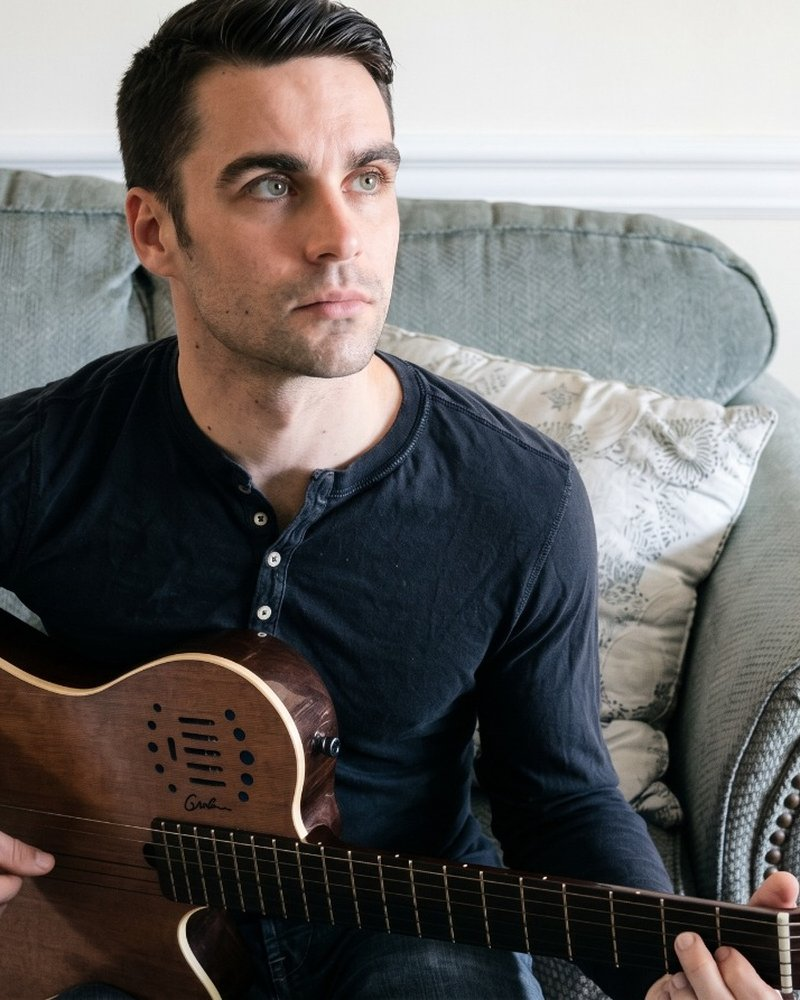
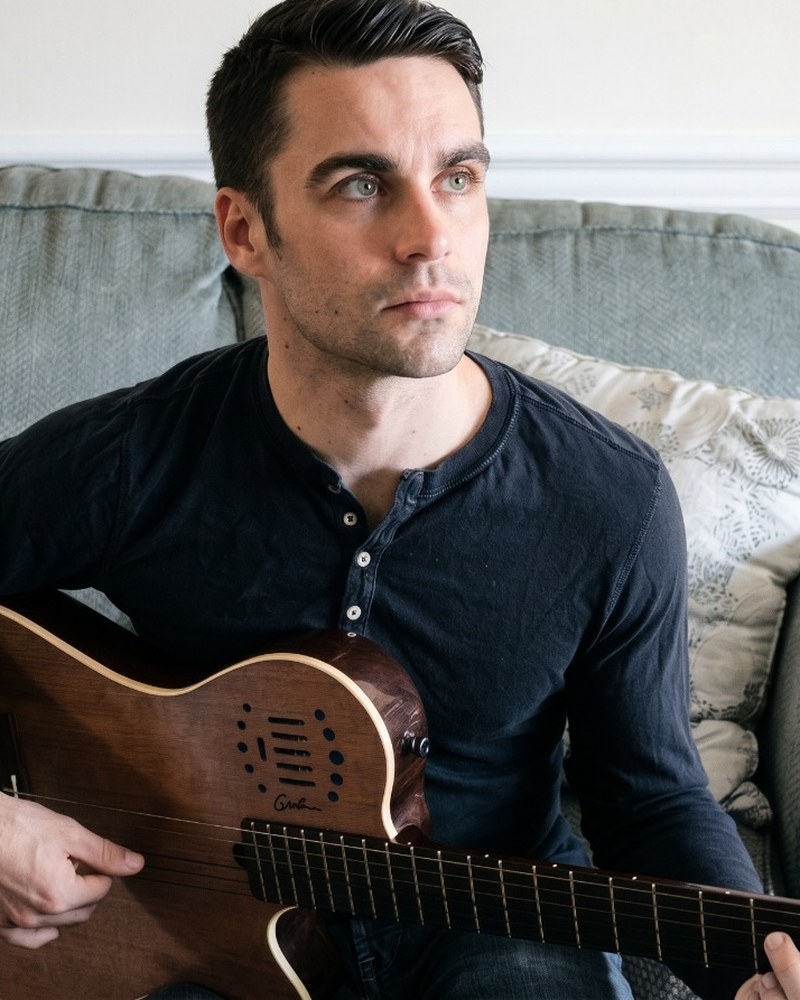
Fix: photo centering + Michael contact info

diff --git a/index.html b/index.html
@@ -299,13 +299,20 @@ body{
   background:rgba(251,247,241,.04);
   border:1px solid rgba(251,247,241,.08);
   border-radius:20px;
-  transition:all .4s ease;
-  cursor:default;
+  transition:transform .3s cubic-bezier(.34,1.56,.64,1), background .3s ease, border-color .3s ease, box-shadow .3s ease;
+  cursor:pointer;
 }
 .pillar:hover{
-  background:rgba(251,247,241,.07);
-  border-color:rgba(232,184,110,.3);
-  transform:translateY(-4px);
+  background:rgba(251,247,241,.1);
+  border-color:rgba(232,184,110,.6);
+  transform:translateY(-10px) scale(1.03);
+  box-shadow:0 20px 50px rgba(232,184,110,.18), 0 0 0 1px rgba(232,184,110,.4), inset 0 1px 0 rgba(232,184,110,.15);
+}
+.pillar:hover .pillar-num{
+  color:#F5C77A;
+}
+.pillar:hover .pillar-title{
+  color:#F5C77A;
 }
 .pillar-num{
   font-family:'Fraunces',serif;
@@ -357,9 +364,8 @@ body{
   width:100%;
   height:100%;
   object-fit:cover;
-  transition:transform 1s ease;
+  object-position:center center;
 }
-.founder-photo:hover img{transform:scale(1.03)}
 .founder-stats{
   display:flex;
   gap:40px;
@@ -710,6 +716,7 @@ body{
             <div class="stat-label">Students Reached</div>
           </div>
         </div>
+        <p style="font-size:15px;color:#3D362C;margin-top:32px">Email Michael directly: <a href="mailto:[email redacted]" style="color:#B8732D;font-weight:500">[email redacted]</a><br>Call Michael: <a href="tel:+12013440362" style="color:#B8732D;font-weight:500">(201) 344-0362</a></p>
       </div>
     </div>
   </div>
@@ -828,32 +835,51 @@ const observer = new IntersectionObserver(entries => {
 document.querySelectorAll('.reveal').forEach(el => observer.observe(el));
 
 // ─── Form submission ──────────────────────────────────────
+// Posts to GHL Inbound Webhook (MUSE Landing Page Lead Capture workflow)
+const GHL_WEBHOOK_URL = 'https://services.leadconnectorhq.com/hooks/YtbPhzlOK5ZOjZwdFL4G/webhook-trigger/ee4a87ef-4ef2-4907-a98e-1e4b05e16a84';
+
 async function handleSubmit(e){
   e.preventDefault();
   const form = e.target;
+  const submitBtn = form.querySelector('button[type="submit"]');
+  const originalBtnText = submitBtn ? submitBtn.textContent : '';
+
+  // Disable submit button while sending to prevent double-submission
+  if(submitBtn){ submitBtn.disabled = true; submitBtn.textContent = 'Sending...'; }
+
+  // Split full name into first/last so GHL contact fields map cleanly
+  const fullName = (form.name.value || '').trim();
+  const firstName = fullName.split(' ')[0] || '';
+  const lastName = fullName.split(' ').slice(1).join(' ') || '';
+
   const data = {
-    name: form.name.value,
+    name: fullName,
+    first_name: firstName,
+    last_name: lastName,
     school: form.school.value,
     email: form.email.value,
     phone: form.phone.value,
     message: form.message.value,
-    source: 'Landing Page'
+    source: 'MUSE Landing Page'
   };
 
-  // Submit to API (wire up to GHL later)
+  let submitOk = false;
   try {
-    await fetch('/api/landing-submit', {
+    const res = await fetch(GHL_WEBHOOK_URL, {
       method: 'POST',
       headers: { 'Content-Type': 'application/json' },
       body: JSON.stringify(data)
     });
+    submitOk = res.ok;
+    if(!res.ok) console.warn('GHL webhook returned non-OK status:', res.status);
   } catch(err) {
     console.warn('Submit error:', err);
   }
 
-  // Show success regardless (so user gets feedback)
+  // Show success message (form data was either submitted or attempted)
   document.getElementById('form-success').classList.add('show');
   form.reset();
+  if(submitBtn){ submitBtn.disabled = false; submitBtn.textContent = originalBtnText; }
   setTimeout(() => {
     document.getElementById('form-success').classList.remove('show');
   }, 5000);